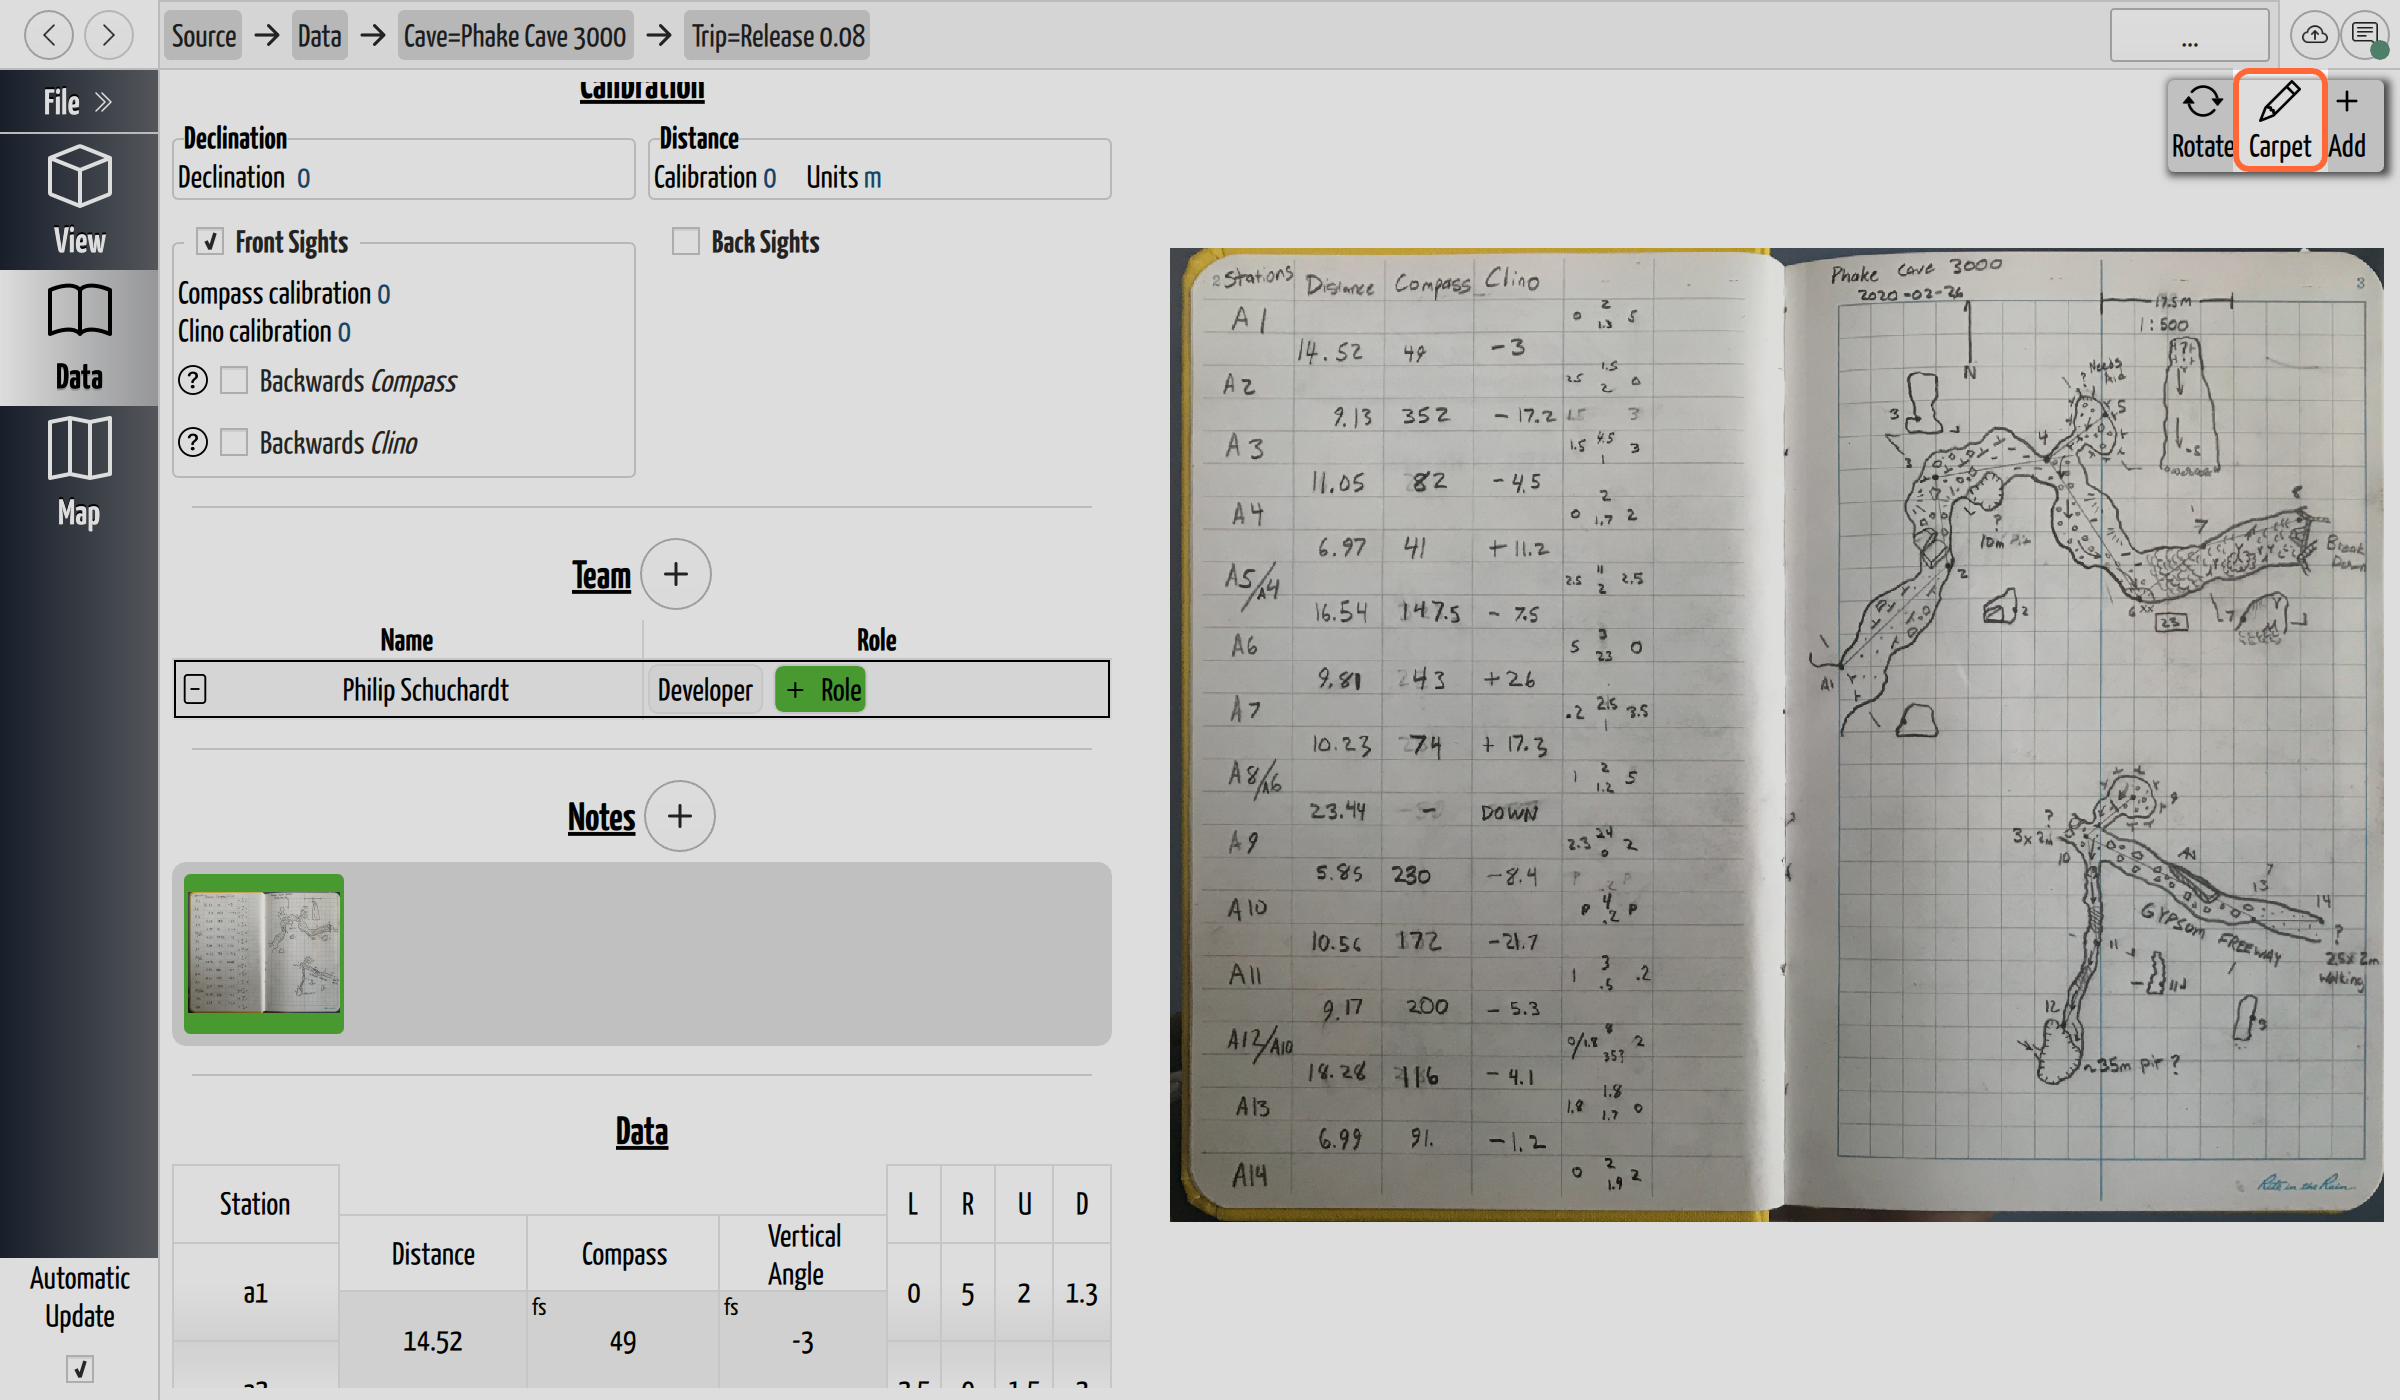
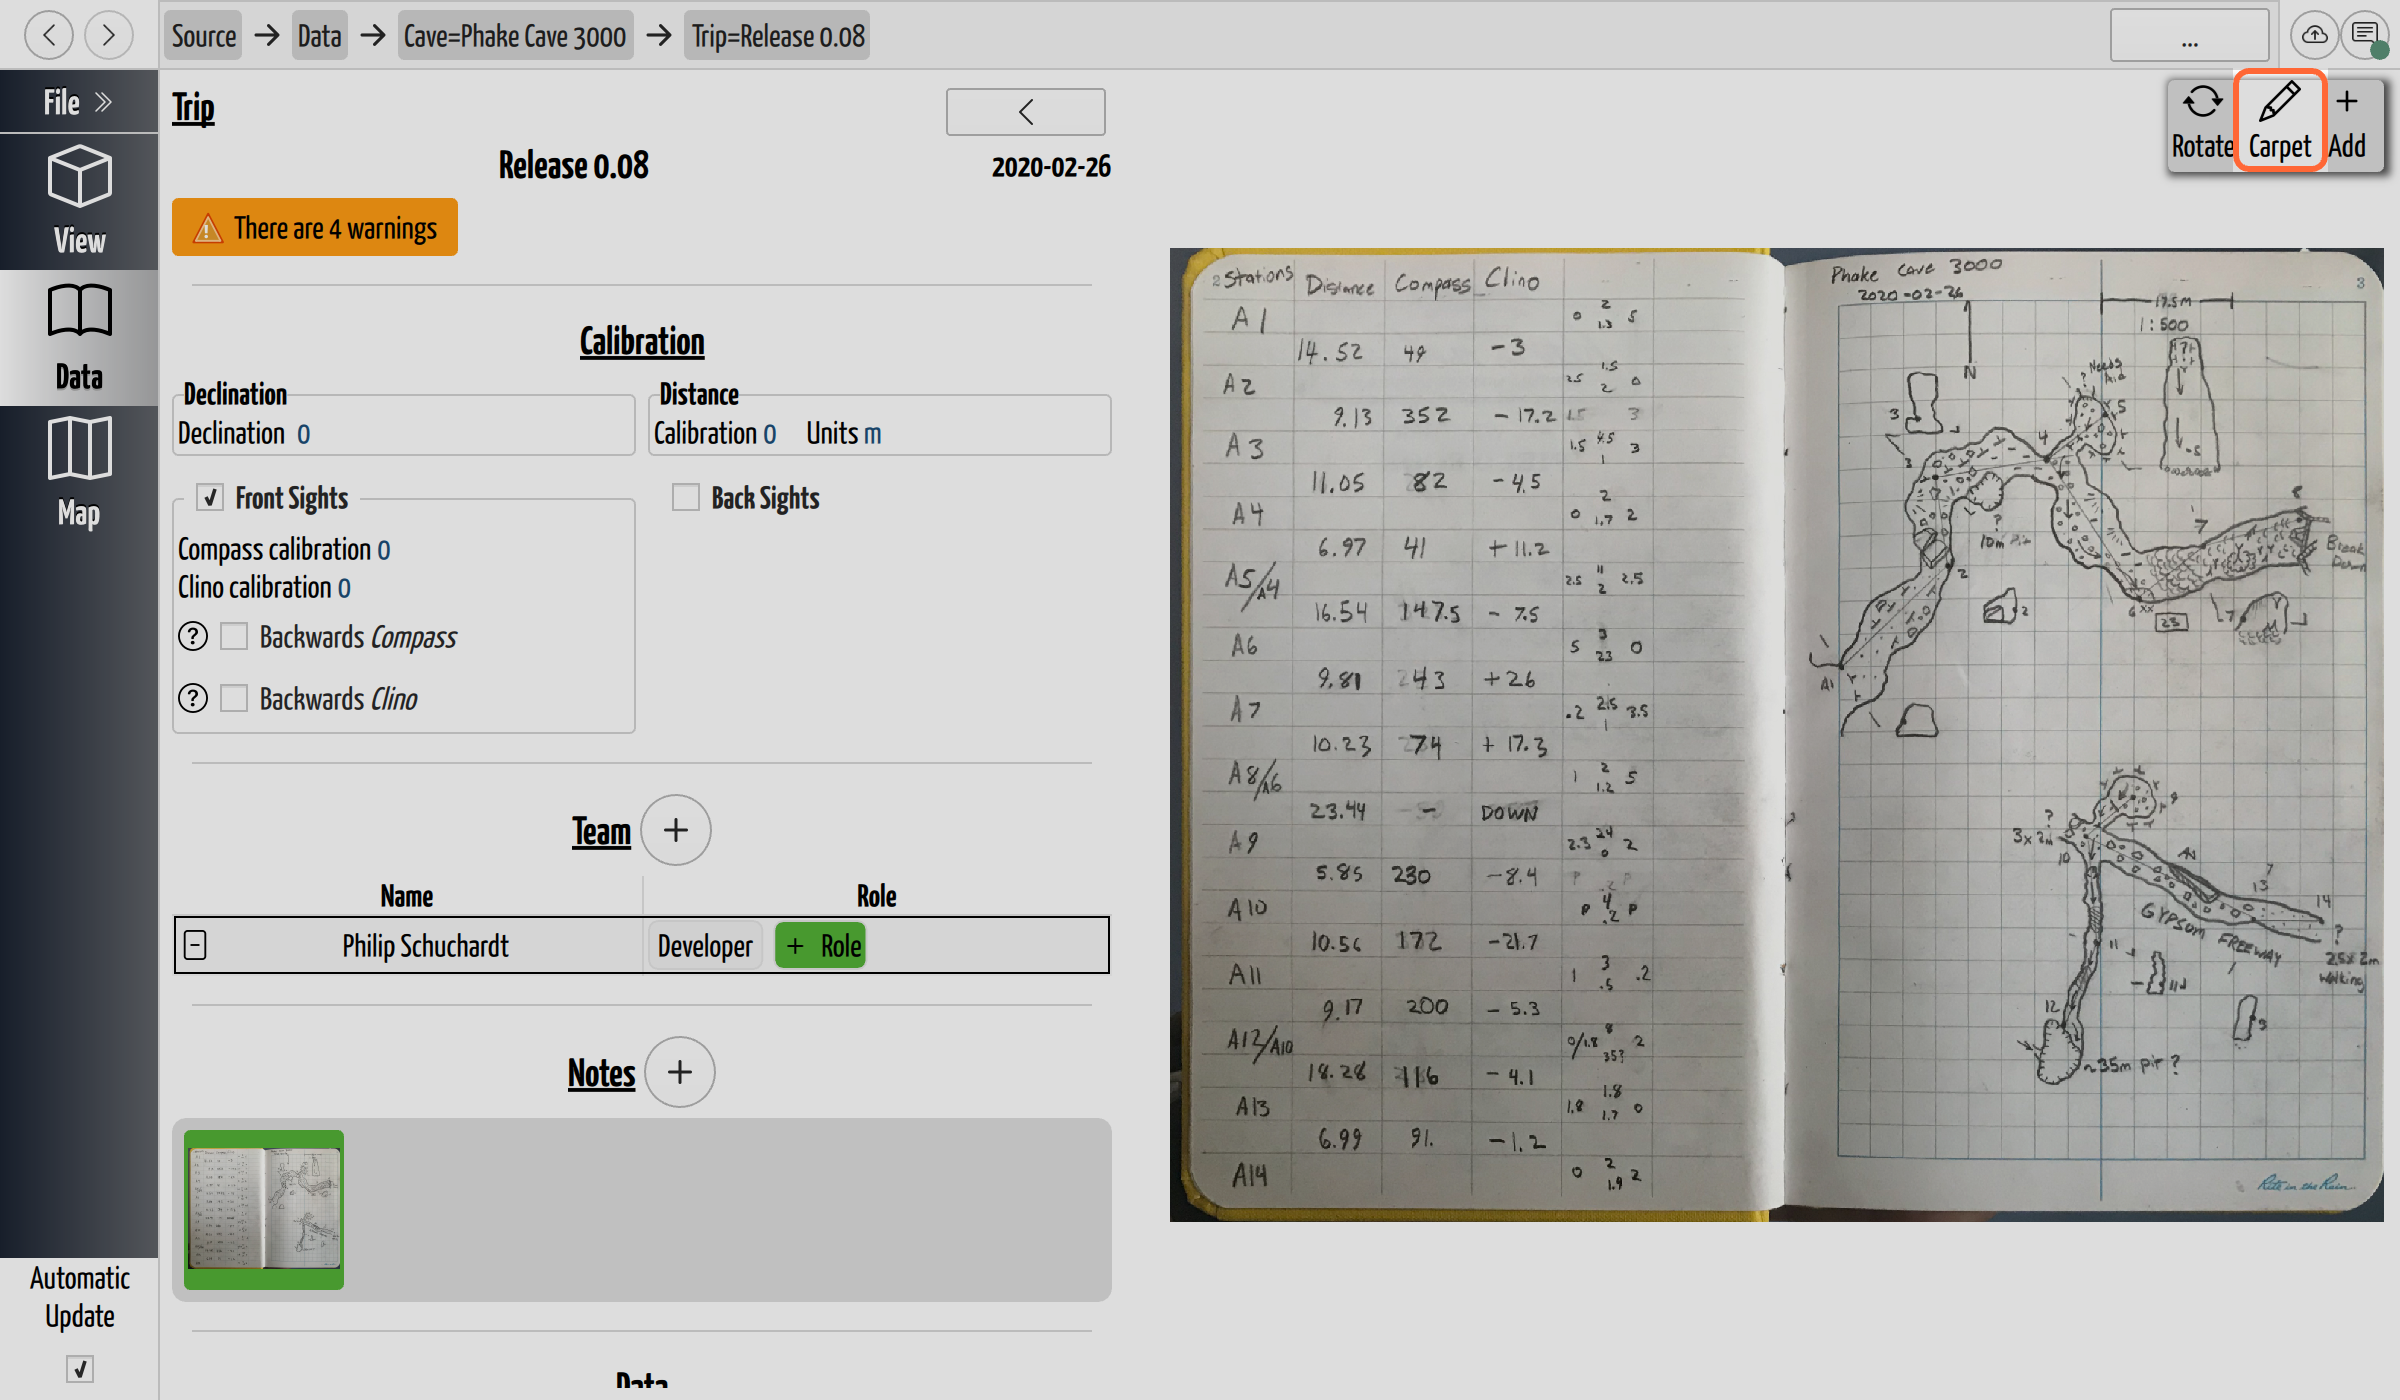
Make manual screenshots reproducible one shot at a time
Regenerating a single screenshot meant regenerating all 26 (~45s), because a
filtered run did not produce the same image as a full one. QtTest's stock
testfunction filter already works on QML tests, so the only thing missing was
determinism.

Running all 26 tests individually and diffing against a full run showed 7 of 27
images came out wrong when generated alone — per-shot generation would have
silently written broken screenshots into the manual. Three causes, all in test
code:

- HighlightOverlay.targetRect was a bound mapToItem(). A binding only
  re-evaluates when a property it references changes, and scrolling or
  relayouting the target touches none of target/width/height, so the ring was
  computed once and froze — landing hundreds of pixels away on a page that was
  still laying out. Now a plain property refreshed from settle(), which every
  grab already goes through. Not a per-frame FrameAnimation: that pins the
  render loop and re-renders the 3D scene every frame (44s -> 121s).
- The trip-page shots never positioned the survey editor, so it opened wherever
  the previous test left it. New parkSurveyEditorAtTop(), called last, right
  before the grab: the note image decodes late and relayouts the editor's
  header, moving an earlier positioning call out from under the shot.
- test_surveyTeam never selected the team row, whose remove button, outline and
  green "+ Role" button all bind visible: rowDelegate.selected. It only ever
[…]

diff --git a/test-qml/tst_ManualScreenshots.qml b/test-qml/tst_ManualScreenshots.qml
@@ -170,11 +170,14 @@ MainWindowTest {
         }
 
         // Drain any jobs the navigation/tab-switch queued, then give the scene
-        // graph a couple of frames to present the page (and any highlight overlay)
-        // before grabbing.
+        // graph a couple of frames to present the page (and any highlight
+        // overlay) before grabbing. Re-aims the highlight ring last: its rect is
+        // computed from the target's position, which only means anything once the
+        // page has finished laying out.
         function settle() {
             RootData.futureManagerModel.waitForFinished();
             wait(150);
+            highlightOverlayId.refresh();
         }
 
         // Wait up to ~2s for a live QRhi on the given item's window; on a headless
@@ -548,6 +551,24 @@ MainWindowTest {
             return gallery;
         }
 
+        // Park the trip page's survey editor at its header, so a grab of that
+        // page shows the trip's name and calibration rather than a mid-scroll
+        // position. Nothing in the app sets this: the editor opens wherever the
+        // previous test left it, which made every trip-page shot depend on run
+        // order — and come out scrolled to Front Sights when run alone.
+        //
+        // Call this LAST, right before the grab. The note image decodes a beat
+        // after the page appears, and its arrival relayouts the editor's header,
+        // which moves originY and re-scrolls the view out from under an earlier
+        // positioning call.
+        function parkSurveyEditorAtTop() {
+            let view = ObjectFinder.findObjectByChain(rootId.mainWindow,
+                "rootId->tripPage->surveyEditor->view");
+            verify(view, "found the survey editor's list view");
+            view.positionViewAtBeginning();
+            settle();
+        }
+
         // The Carpet button on the TRIP page — how you actually enter Carpet
         // mode. Highlighted here rather than on the note page because the note
         // page's compact layout hides the toolbar button. Backs the "Enter
@@ -565,6 +586,7 @@ MainWindowTest {
             highlightOverlayId.target = carpetButton;
             waitForNoteRendered();
             settle();
+            parkSurveyEditorAtTop();
 
             let path = WindowGrabber.grabToFile(rootId.mainWindow, "scraps-enter-carpet");
             verify(path.length > 0, "grabToFile wrote the enter-carpet screenshot");
@@ -592,6 +614,7 @@ MainWindowTest {
             highlightOverlayId.target = button;
             waitForNoteRendered();
             settle();
+            parkSurveyEditorAtTop();
 
             let path = WindowGrabber.grabToFile(rootId.mainWindow, shotName);
             verify(path.length > 0, "grabToFile wrote " + shotName);
@@ -738,6 +761,7 @@ MainWindowTest {
             highlightOverlayId.target = addButton;
             waitForNoteRendered();
             settle();
+            parkSurveyEditorAtTop();
 
             let path = WindowGrabber.grabToFile(rootId.mainWindow, "notes-add-button");
             verify(path.length > 0, "grabToFile wrote the add-note screenshot");
@@ -776,6 +800,7 @@ MainWindowTest {
 
             highlightOverlayId.target = rotateButton;
             settle();
+            parkSurveyEditorAtTop();
 
             let path = WindowGrabber.grabToFile(rootId.mainWindow, "notes-rotate");
             verify(path.length > 0, "grabToFile wrote the rotate screenshot");
@@ -1302,6 +1327,18 @@ MainWindowTest {
                    "the demo trip has a team to shoot (state is " + teamTable.state + ")");
 
             scrollSurveyEditorTo(view, teamTable);
+
+            // Select the first member. The row's remove button, its outline and
+            // the green "+ Role" button all bind `visible: rowDelegate.selected`,
+            // so an unselected row shows none of them — and caves-and-trips.md
+            // describes the "+ Role" button by name. TeamTable resets
+            // currentIndex to -1 on every model change, so which state the grab
+            // caught used to depend on what ran before it.
+            let teamRow = findVisibleByName(teamTable, "teamRow.0");
+            verify(teamRow, "found the first team row");
+            mouseClick(teamRow);
+            tryVerify(() => teamRow.selected, 5000, "the first team member is selected");
+
             highlightOverlayId.target = null;
             settle();
 

diff --git a/test-qml/HighlightOverlay.qml b/test-qml/HighlightOverlay.qml
@@ -15,9 +15,27 @@ QQ.Item {
     property real ringThickness: 3
     property real cornerRadius: 8
 
-    readonly property rect targetRect: target
-        ? target.mapToItem(overlayId, 0, 0, target.width, target.height)
-        : Qt.rect(0, 0, 0, 0)
+    // Recomputed on demand rather than bound: mapToItem() reads the whole
+    // ancestor chain's transforms, but a binding only re-evaluates when a
+    // property it *references* changes. Scrolling a ListView or relayouting a
+    // parent moves the target without touching target/width/height, so a bound
+    // rect silently keeps a stale position — which put the ring hundreds of
+    // pixels from its target whenever a page was still laying out.
+    //
+    // Callers must refresh() once the layout has settled and before grabbing;
+    // the harness does this from its settle(), which every grab already goes
+    // through. Deliberately not a per-frame FrameAnimation: that pins the render
+    // loop at full rate, and re-rendering the 3D scene every frame tripled the
+    // generator's runtime.
+    property rect targetRect: Qt.rect(0, 0, 0, 0)
+
+    function refresh() {
+        targetRect = target
+            ? target.mapToItem(overlayId, 0, 0, target.width, target.height)
+            : Qt.rect(0, 0, 0, 0);
+    }
+
+    onTargetChanged: refresh()
 
     // Clamp the ring inside the window, insetting by the stroke so the full
     // border stays visible even when the target is flush against an edge (the

diff --git a/docs/manual/AUTHORING.md b/docs/manual/AUTHORING.md
@@ -136,6 +136,19 @@ The pieces:
   a GPU-backed platform (native cocoa on macOS) — the headless `offscreen`
   platform has no live 3D and the harness *skips* there, so `offscreen` is safe
   for the normal test suite but produces no images.
+- **Regenerate one shot** while iterating on it: `-t` restricts the run to a
+  single test function and rewrites only the images that function grabs. A whole
+  run is ~45s; one shot is ~1.5s.
+
+  ```bash
+  scripts/gen-manual-screenshots.sh -t test_surveyTeam     # repeatable
+  ```
+
+  Run the whole thing once before committing, to prove the shots you didn't
+  touch still generate. A re-render that only differs by antialiasing is not
+  worth committing — it costs a full blob per image — so commit new and
+  genuinely-changed images only, and revert the rest with
+  `git checkout -- docs/manual/images/`.
 - **Add a screenshot:** add a `test_<shotName>()` function to
   `tst_ManualScreenshots.qml` that navigates to the page
   (`RootData.pageSelectionModel.currentPageAddress = "…"`), optionally sets
@@ -147,6 +160,18 @@ The pieces:
   in its QML file (a small, low-risk edit following the existing convention).
 - Keep shots deterministic: reuse the curated demo fixture, and pin anything
   that would otherwise vary (theme, background) as the harness already does.
+- **Set every piece of state your shot depends on, in the shot itself.** Test
+  functions run in alphabetical order and share one process, one `RootData` and
+  one mouse cursor, so anything you don't set is inherited from whatever ran
+  before — scroll position, selection, hover, mode. Shots that leaned on
+  inherited state used to come out right in a full run and *wrong* when
+  generated alone (a ring on the wrong control, an editor scrolled to the middle
+  of itself, a team row whose buttons only appear when selected). If a shot
+  can't be reproduced by `-t` on its own, it is not reproducible at all — it
+  just happens to agree with the last full run.
+- Set that state **last, right before the grab.** A note image decodes a beat
+  after its page appears and relayouts the editor around it, so state
+  established earlier gets moved out from under you.
 
 ## Keeping the indexes in sync
 
